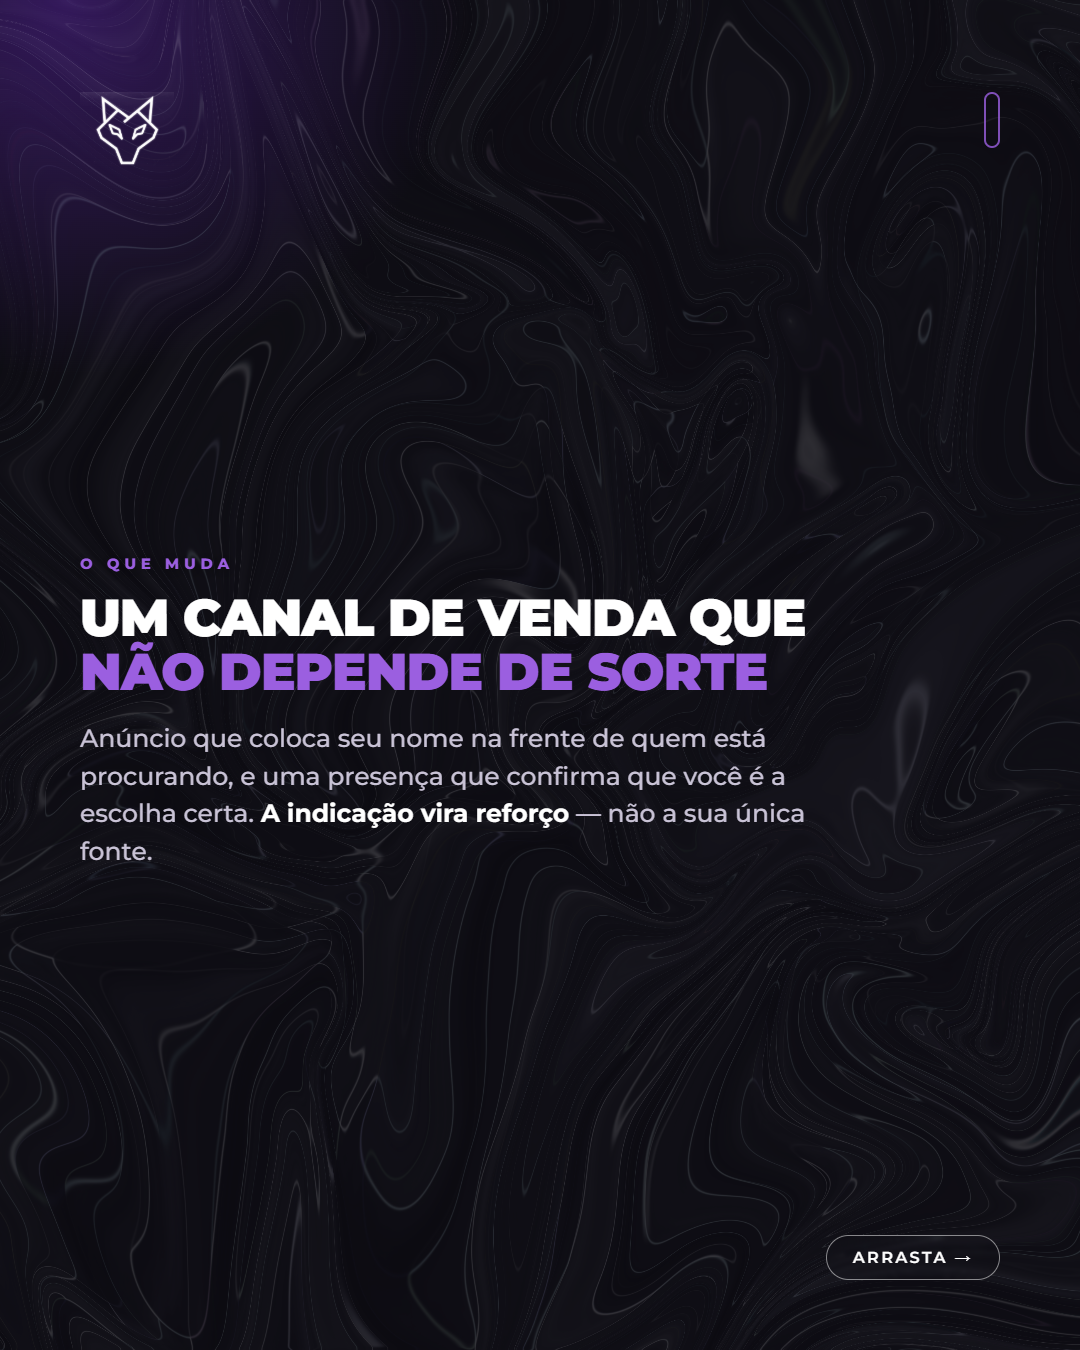
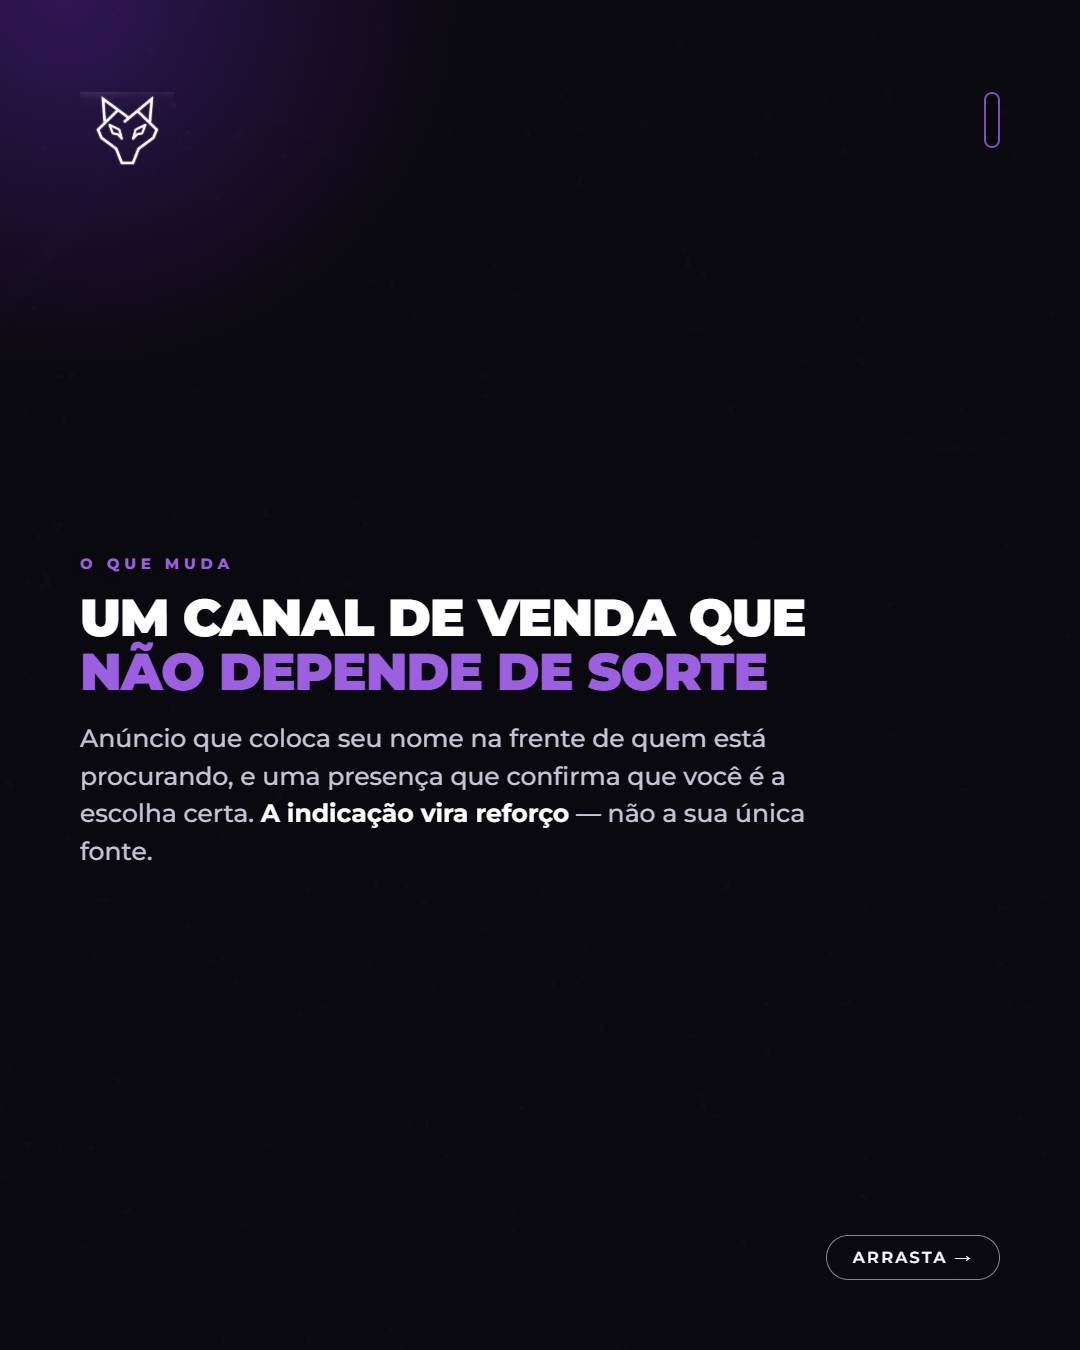
Textura como grão sutil nos slides de design (não como foto de fundo)
Slides 3/7/8 deixam de usar o liquid em tela cheia (parecia foto) e passam a
um grão quase imperceptível (stars 10%, soft-light) sobre o gradiente escuro.
Texto dominante. Slide 05 mantido (referência de textura bem usada).

diff --git a/marketing/conteudo/carrossel-teste-criativo-2026-06-16/carrossel.html b/marketing/conteudo/carrossel-teste-criativo-2026-06-16/carrossel.html
@@ -14,9 +14,10 @@
 
   .slide{ width:1080px; height:1350px; position:relative; overflow:hidden;
     color:var(--branco); padding:92px 80px; display:flex; flex-direction:column; background:#0b0a10; }
-  /* textura sutil nos slides de design (escuros) */
+  /* textura como GRÃO sutil (não como foto) — quase imperceptível, só dá superfície */
   .slide.design::after{ content:""; position:absolute; inset:0; pointer-events:none; z-index:1;
-    background:var(--liquid) center/cover no-repeat; opacity:.20; mix-blend-mode:screen; }
+    background:url('../../../identidade/textura-stars.png') center/cover no-repeat;
+    background-size:160%; opacity:.10; mix-blend-mode:soft-light; }
   .conteudo{ position:relative; z-index:3; display:flex; flex-direction:column; height:100%; }
 
   /* topo */